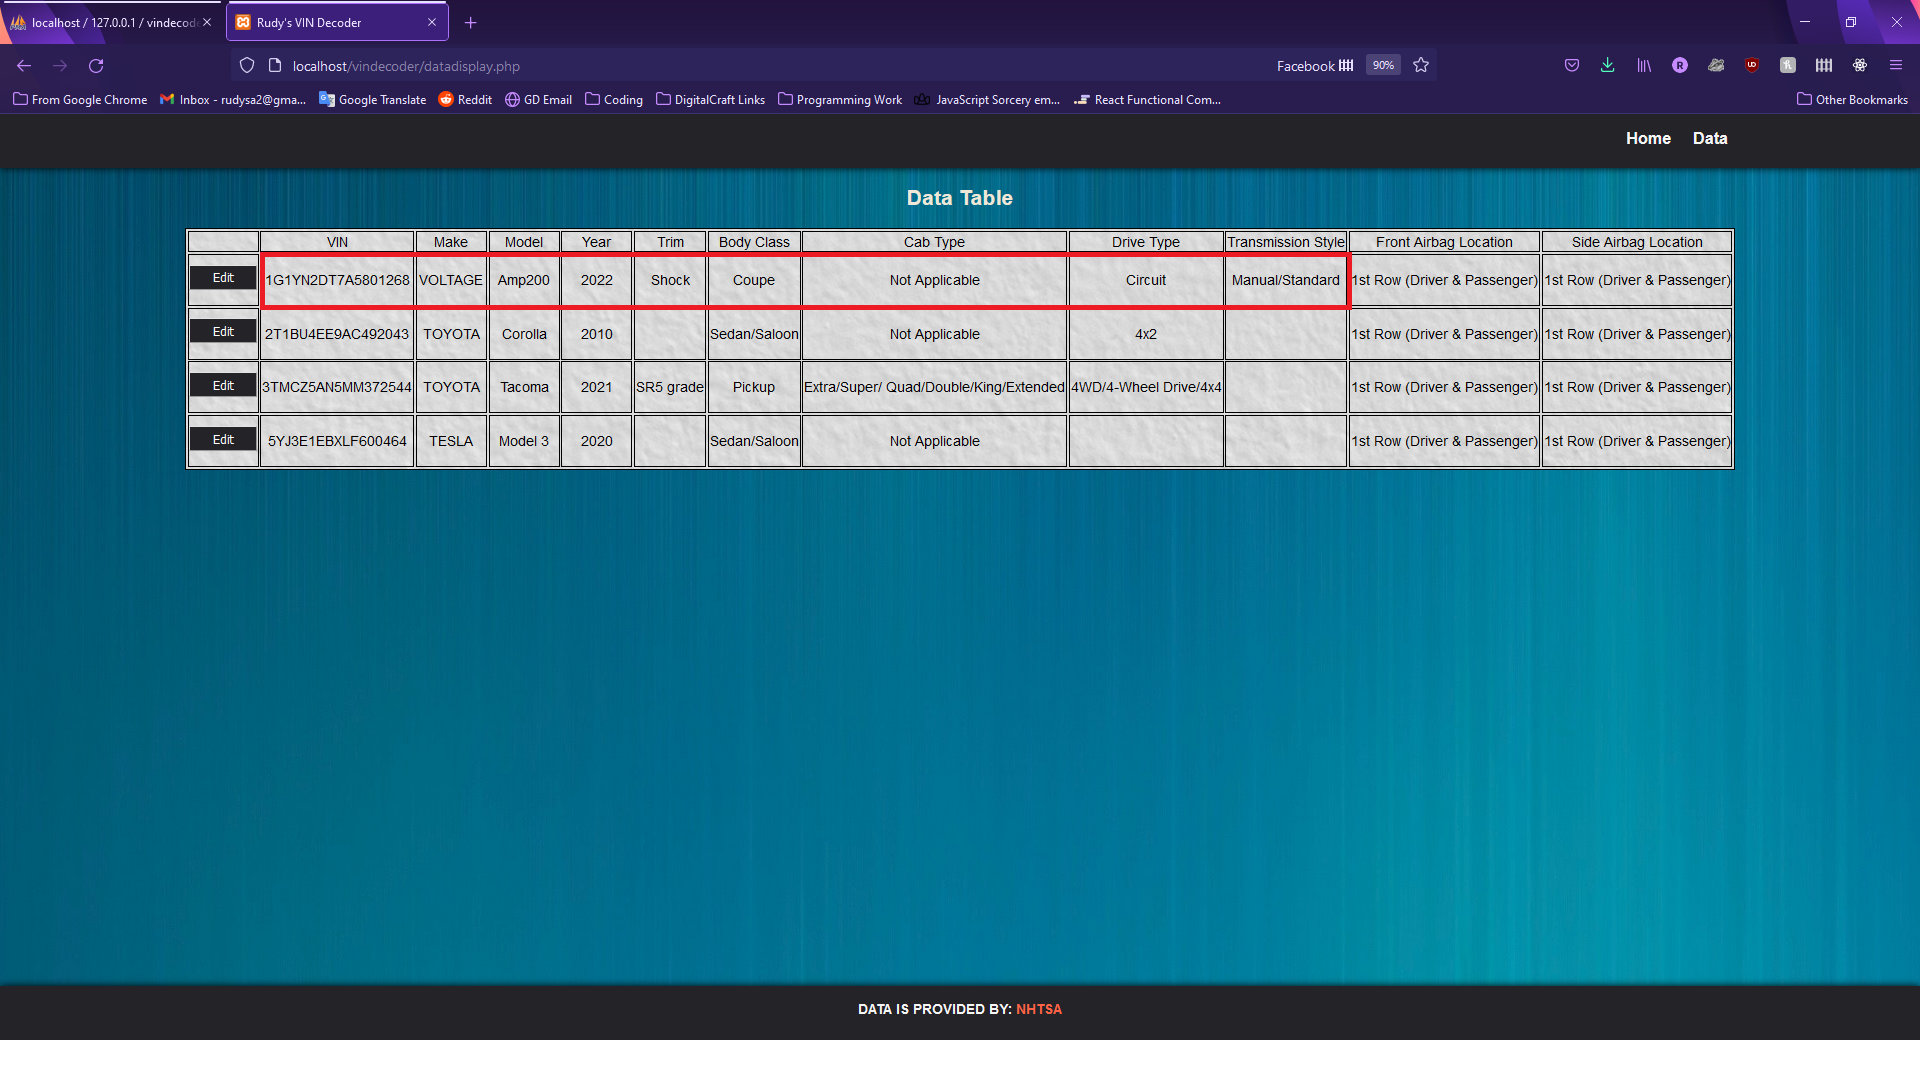
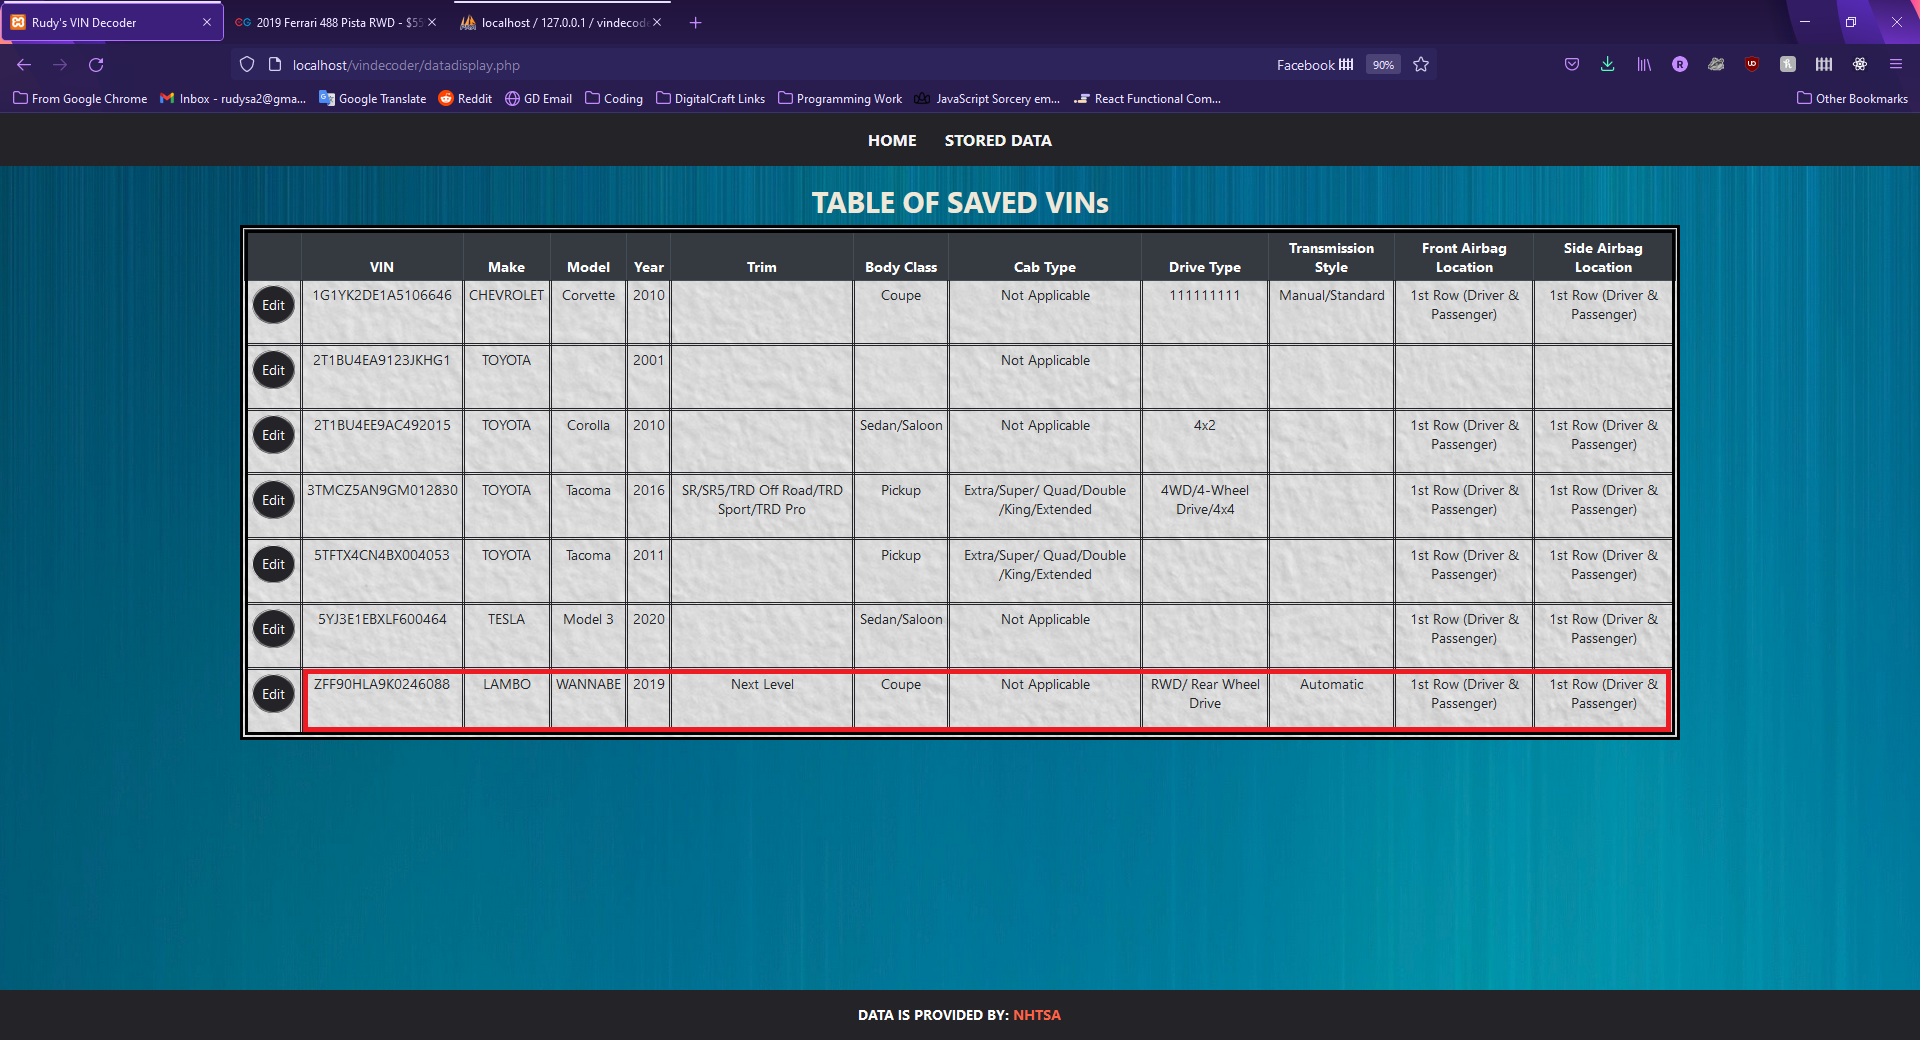
bug squish

diff --git a/includes/datatable.php b/includes/datatable.php
@@ -1,25 +1,43 @@
 <?php
 require 'database.php';
 
-// session_destroy();
-
 //Grabbing data from mysql and generating them in a table element.
 
 $sql = "SELECT * FROM vinlist";
 $result = mysqli_query($conn, $sql) or die("Bad Query: $sql");
+?>
 
+<div>
+    <h2>TABLE OF SAVED VINs</h2>
+    <table class="table table-sm">
+        <thead class="thead-dark">
+            <tr>
+                <th scope="col"></th>
+                <th scope="col">VIN</th>
+                <th scope="col">Make</th>
+                <th scope="col">Model</th>
+                <th scope="col">Year</th>
+                <th scope="col">Trim</th>
+                <th scope="col">Body Class</th>
+                <th scope="col">Cab Type</th>
+                <th scope="col">Drive Type</th>
+                <th scope="col">Transmission Style</th>
+                <th scope="col">Front Airbag Location</th>
+                <th scope="col">Side Airbag Location</th>
+            </tr>
+        </thead>
+        <tbody>
+            <?php
+            while ($row = mysqli_fetch_assoc($result)) {
+                echo "<tr><td><form method=post><button class=editdata type=submit name=editData value={$row['vin']}>Edit</button></form></td><td>{$row['vin']}</td><td>{$row['make']}</td><td>{$row['model']}</td><td>{$row['modelYear']}</td><td>{$row['trim']}</td><td>{$row['bodyClass']}</td><td>{$row['cabType']}</td><td>{$row['driveType']}</td><td>{$row['transmissionStyle']}</td><td>{$row['frontAirbagLocation']}</td><td>{$row['sideAirbagLocation']}</td></tr>\n";
+            }
+            ?></tbody>
+    </table>
+</div>
 
-echo"<table>";
-echo"<tr><td></td><td>VIN</td><td>Make</td><td>Model</td><td>Year</td><td>Trim</td><td>Body Class</td><td>Cab Type</td><td>Drive Type</td><td>Transmission Style</td><td>Front Airbag Location</td><td>Side Airbag Location</td></tr>\n";
-while($row = mysqli_fetch_assoc($result)) {
-    echo"<tr><td><form method=post><button class=editdata type=submit name=editData value={$row['vin']}>Edit</button></form></td><td>{$row['vin']}</td><td>{$row['make']}</td><td>{$row['model']}</td><td>{$row['modelYear']}</td><td>{$row['trim']}</td><td>{$row['bodyClass']}</td><td>{$row['cabType']}</td><td>{$row['driveType']}</td><td>{$row['transmissionStyle']}</td><td>{$row['frontAirbagLocation']}</td><td>{$row['sideAirbagLocation']}</td></tr>\n";
-}
-echo"</table>";
-
+<?php
 if (isset($_POST['editData'])) {
     $_SESSION['editvin'] = $_POST['editData'];
     header('Location:modify.php');
 }
-
 ?>
-

diff --git a/datadisplay.php b/datadisplay.php
@@ -2,12 +2,10 @@
 require_once 'includes/header.php';
 ?>
 
-<div>
-    <h2>TABLE OF SAVED VINs</h2>
-    <?php
-    require_once 'includes/datatable.php';
-    ?>
-</div>
+<?php
+require_once 'includes/datatable.php';
+?>
+
 
 <?php
 require_once 'includes/footer.php';
